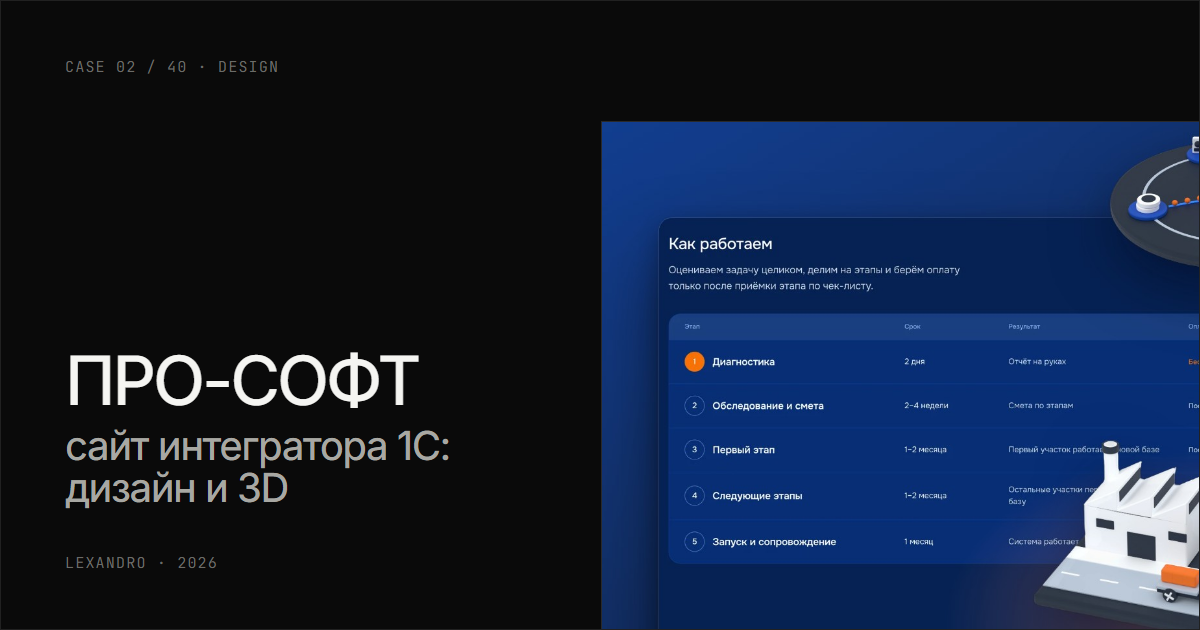
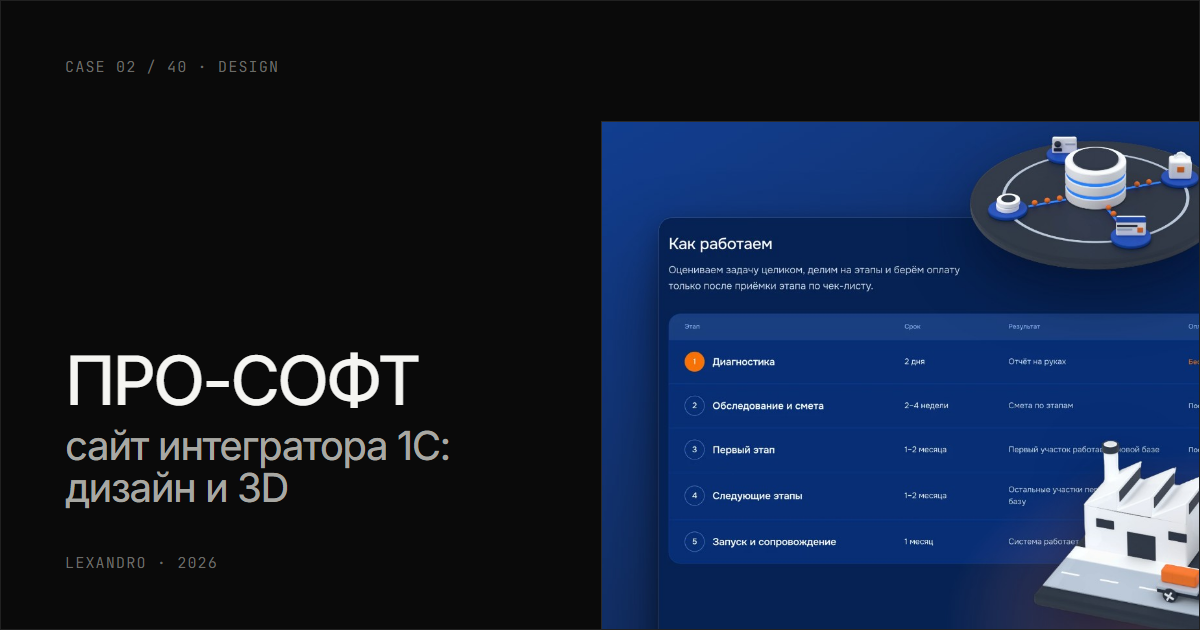
Логотипы клиентов без фона в кейсах и карточках

Changed region(s): [[0.8017, 0.2111, 1.0, 0.4524]]

diff --git a/src/components/case/Scenes/food-assistants/Scene.tsx b/src/components/case/Scenes/food-assistants/Scene.tsx
@@ -1,12 +1,12 @@
 'use client'
 
 import { Fragment } from 'react'
-import { asset } from '@/lib/asset'
 import type { SceneProps } from '../types'
 import { Back, Brief, Cap, Chat, Controls, Facts, Lead, Meta, Mono, Msg, Note, Reveal, Sys, Title, Typing, usePlay } from '../kit'
 import { beat, marksOf, schedule, useBeats } from '../packaging-bots/useBeats'
 import scene from '../Scene.module.css'
 import styles from './Scene.module.css'
+import { ClientLogo } from '@/components/ui/ClientLogo'
 
 type Line = { k: 'out' | 'in' | 'sys'; text: string; d?: number }
 type Step = {
@@ -34,7 +34,6 @@ type Data = {
 /** Шаги: телефон клиента, каталог, база знаний, готовый ответ, сотрудник, передача менеджеру, итог */
 const SPANS = [3600, 3000, 3000, 3000, 3000, 4200, 3000]
 
-const LOGO = '/cases/food-assistants/real/logo.webp'
 
 const pad = (n: number) => String(n + 1).padStart(2, '0')
 
@@ -147,8 +146,7 @@ export function Scene({ item, meta, facts, brief, t, data }: SceneProps) {
           {side('left')}
 
           <div className={styles.head}>
-            {/* eslint-disable-next-line @next/next/no-img-element -- статическая выгрузка, оптимизатора next/image нет */}
-            <img className={styles.logo} src={asset(LOGO)} alt="" width={500} height={200} decoding="async" />
+            {item.logo && <ClientLogo logo={item.logo} className={styles.logo} />}
             <Mono>{d.head.title}</Mono>
             <p key={step} className={styles.log}>
               {all ? d.head.all : cur.log || d.head.idle}

diff --git a/src/components/case/Scenes/packaging-bots/Scene.tsx b/src/components/case/Scenes/packaging-bots/Scene.tsx
@@ -7,6 +7,7 @@ import { Back, Brief, Cap, Chat, Controls, Facts, Lead, Meta, Mono, Msg, Note, P
 import { beat, marksOf, schedule, useBeats } from './useBeats'
 import scene from '../Scene.module.css'
 import styles from './Scene.module.css'
+import { ClientLogo } from '@/components/ui/ClientLogo'
 
 type Msgs = { at: number; side: 'in' | 'out' | 'sys'; text: string; link?: string }
 type Data = {
@@ -50,7 +51,6 @@ const LIT = [2, 4, 4, -1, -1, -1]
 const CLOCK = ['10:41', '10:42', '10:43', '10:43', '10:44', '10:44', '', '10:47', '10:47', '']
 
 const PHOTO = '/cases/osq/real/product-box.webp'
-const LOGO = '/cases/osq/real/logo.svg'
 
 const css = (v: Record<string, string | number>) => v as CSSProperties
 
@@ -113,8 +113,7 @@ export function Scene({ item, meta, facts, brief, t, data }: SceneProps) {
           <section className={styles.desk} aria-label={d.shelf.title}>
             <div className={styles.dhead}>
               <span className={styles.brand}>
-                {/* eslint-disable-next-line @next/next/no-img-element -- статическая выгрузка, оптимизатора next/image нет */}
-                <img className={styles.logo} src={asset(LOGO)} alt="" height={22} />
+                {item.logo && <ClientLogo logo={item.logo} className={styles.logo} />}
                 <Mono>{d.pipe.title}</Mono>
               </span>
               <p key={step} className={styles.log}>

diff --git a/src/components/ui/ClientLogo/ClientLogo.tsx b/src/components/ui/ClientLogo/ClientLogo.tsx
@@ -1,0 +1,29 @@
+import type { CSSProperties } from 'react'
+import { asset } from '@/lib/asset'
+import styles from './ClientLogo.module.css'
+
+type Props = {
+  logo: { src: string; w: number; h: number }
+  /** Для экранного диктора. Рядом уже есть название: не задаём, логотип молчит */
+  label?: string
+  className?: string
+}
+
+/**
+ * Логотип клиента одним цветом: файл без фона работает маской, цвет берётся из color.
+ * Поэтому знак подстраивается под любую тему и цветное поле, плашка не нужна.
+ * Широкие логотипы ниже, высокие выше: на глаз все одного веса
+ */
+export function ClientLogo({ logo, label, className }: Props) {
+  const ratio = logo.w / logo.h
+  const k = Math.min(1.25, Math.max(0.6, (2.6 / ratio) ** 0.5))
+  return (
+    <span
+      className={[styles.logo, className].filter(Boolean).join(' ')}
+      role={label ? 'img' : undefined}
+      aria-label={label}
+      aria-hidden={label ? undefined : true}
+      style={{ '--logo': `url(${asset(logo.src)})`, '--ratio': ratio, '--k': k } as CSSProperties}
+    />
+  )
+}

diff --git a/src/components/case/CaseHero/CaseHero.tsx b/src/components/case/CaseHero/CaseHero.tsx
@@ -3,6 +3,7 @@ import type { Case } from '@/content/cases'
 import type { Flow } from '@/content/flows'
 import type { Dict } from '@/i18n/dict'
 import { Arrow } from '@/components/ui/Arrow'
+import { ClientLogo } from '@/components/ui/ClientLogo'
 import { FlowCard } from '@/components/ui/FlowCard'
 import styles from './CaseHero.module.css'
 
@@ -65,7 +66,10 @@ export function CaseHero({ item, index, total, t, directions, backHref, chapters
           <span>
             case {pad(index)} / {pad(total)} · {item.label}
           </span>
-          <span>{item.year}</span>
+          <span className={styles.metaEnd}>
+            {item.logo && <ClientLogo logo={item.logo} label={item.client} className={styles.logo} />}
+            {item.year}
+          </span>
         </div>
 
         <h1 className={styles.title}>

diff --git a/src/components/home/Works/WorkCard.tsx b/src/components/home/Works/WorkCard.tsx
@@ -4,6 +4,7 @@ import { caseColor, type Case } from '@/content/cases'
 import type { Flow } from '@/content/flows'
 import { Arrow } from '@/components/ui/Arrow'
 import { CasePreview } from '@/components/ui/CasePreview'
+import { ClientLogo } from '@/components/ui/ClientLogo'
 import { FlowCard } from '@/components/ui/FlowCard'
 import { Shot } from '@/components/ui/Shot'
 import styles from './WorkCard.module.css'
@@ -53,6 +54,7 @@ export function WorkCard({ item, index, href, flow, note, size, style, className
             />
           )}
           <span className={styles.chip}>{item.label}</span>
+          {item.card && item.logo && <ClientLogo logo={item.logo} className={styles.logo} />}
           {item.card?.illustration && note && <span className={styles.note}>{note}</span>}
         </div>
 

diff --git a/src/components/case/Scenes/kit/Head.tsx b/src/components/case/Scenes/kit/Head.tsx
@@ -1,6 +1,7 @@
 import Link from 'next/link'
 import type { ReactNode } from 'react'
 import { Arrow } from '@/components/ui/Arrow'
+import { ClientLogo } from '@/components/ui/ClientLogo'
 import type { SceneProps } from '../types'
 import hero from '@/components/case/CaseHero/CaseHero.module.css'
 import styles from './Head.module.css'
@@ -27,7 +28,10 @@ export function Meta({ item, meta, className }: Pick<SceneProps, 'item' | 'meta'
       <span>
         case {pad(meta.index)} / {pad(meta.total)} · {item.label}
       </span>
-      <span>{item.year}</span>
+      <span className={hero.metaEnd}>
+        {item.logo && <ClientLogo logo={item.logo} label={item.client} className={hero.logo} />}
+        {item.year}
+      </span>
     </div>
   )
 }

diff --git a/src/components/home/Works/WorkCard.module.css b/src/components/home/Works/WorkCard.module.css
@@ -16,6 +16,7 @@
 }
 
 .media {
+  container-type: inline-size;
   position: relative;
   /* Пропорция обложек 1216x860: кадр входит целиком */
   aspect-ratio: 1216 / 860;
@@ -70,7 +71,19 @@
   object-fit: contain;
 }
 
-.link:hover .media > :not(.chip) {
+/* Логотип клиента в цветной полосе над окном плитки: размер от ширины плитки, правый край по окну */
+.logo {
+  --logo-size: 4.8cqi;
+  position: absolute;
+  inset-block-start: 6.1cqi;
+  inset-inline-end: 7.2cqi;
+  z-index: 1;
+  color: #fff;
+  transform: translateY(-50%);
+  pointer-events: none;
+}
+
+.link:hover .media > :not(.chip, .logo) {
   transform: scale(1.03);
 }
 

diff --git a/src/components/case/CaseHero/CaseHero.module.css b/src/components/case/CaseHero/CaseHero.module.css
@@ -61,6 +61,18 @@
   margin-block: var(--space-3xl) var(--space-lg);
 }
 
+/* Логотип клиента справа в строке меты, красится цветом текста темы */
+.metaEnd {
+  display: inline-flex;
+  align-items: center;
+  gap: var(--space-md);
+}
+
+.logo {
+  --logo-size: 30px;
+  color: var(--fg-primary);
+}
+
 .title {
   max-inline-size: 16em;
   font-size: clamp(var(--type-h2), 6.4vw, calc(var(--type-h2) * 1.33));

diff --git a/src/components/case/Scenes/food-assistants/Scene.module.css b/src/components/case/Scenes/food-assistants/Scene.module.css
@@ -76,16 +76,12 @@
   background: var(--bg-subtle);
 }
 
-/* Логотип клиента на светлой плашке: чёрный текст на тёмной теме не виден */
 .logo {
+  --logo-size: 30px;
   position: absolute;
   inset-block-start: 12px;
   inset-inline-end: 14px;
-  inline-size: 72px;
-  block-size: auto;
-  padding: 4px 8px;
-  box-sizing: content-box;
-  background: #f4f3ef;
+  color: var(--fg-primary);
 }
 
 .log {

diff --git a/src/components/case/Scenes/packaging-bots/Scene.module.css b/src/components/case/Scenes/packaging-bots/Scene.module.css
@@ -61,13 +61,9 @@
   gap: 12px;
 }
 
-/* Логотип клиента на светлой плашке: серый знак не читается на тёмной теме */
 .logo {
-  block-size: 22px;
-  inline-size: auto;
-  padding: 5px 9px;
-  box-sizing: content-box;
-  background: #f4f3ef;
+  --logo-size: 24px;
+  color: var(--fg-primary);
 }
 
 .chipBar {

diff --git a/src/content/cases.ts b/src/content/cases.ts
@@ -99,6 +99,8 @@ export type Case = {
   label: string
   group: 'titan' | 'entersales' | 'freelance' | 'own'
   client: string
+  /** Логотип клиента без фона: красится цветом текста темы */
+  logo?: { src: string; w: number; h: number }
   year: string
   stack: string[]
   sections: CaseSection[]

diff --git a/src/components/ui/ClientLogo/ClientLogo.module.css b/src/components/ui/ClientLogo/ClientLogo.module.css
@@ -1,0 +1,9 @@
+.logo {
+  display: inline-block;
+  flex: none;
+  block-size: calc(var(--logo-size, 28px) * var(--k));
+  aspect-ratio: var(--ratio);
+  background: currentColor;
+  -webkit-mask: var(--logo) center / contain no-repeat;
+  mask: var(--logo) center / contain no-repeat;
+}
